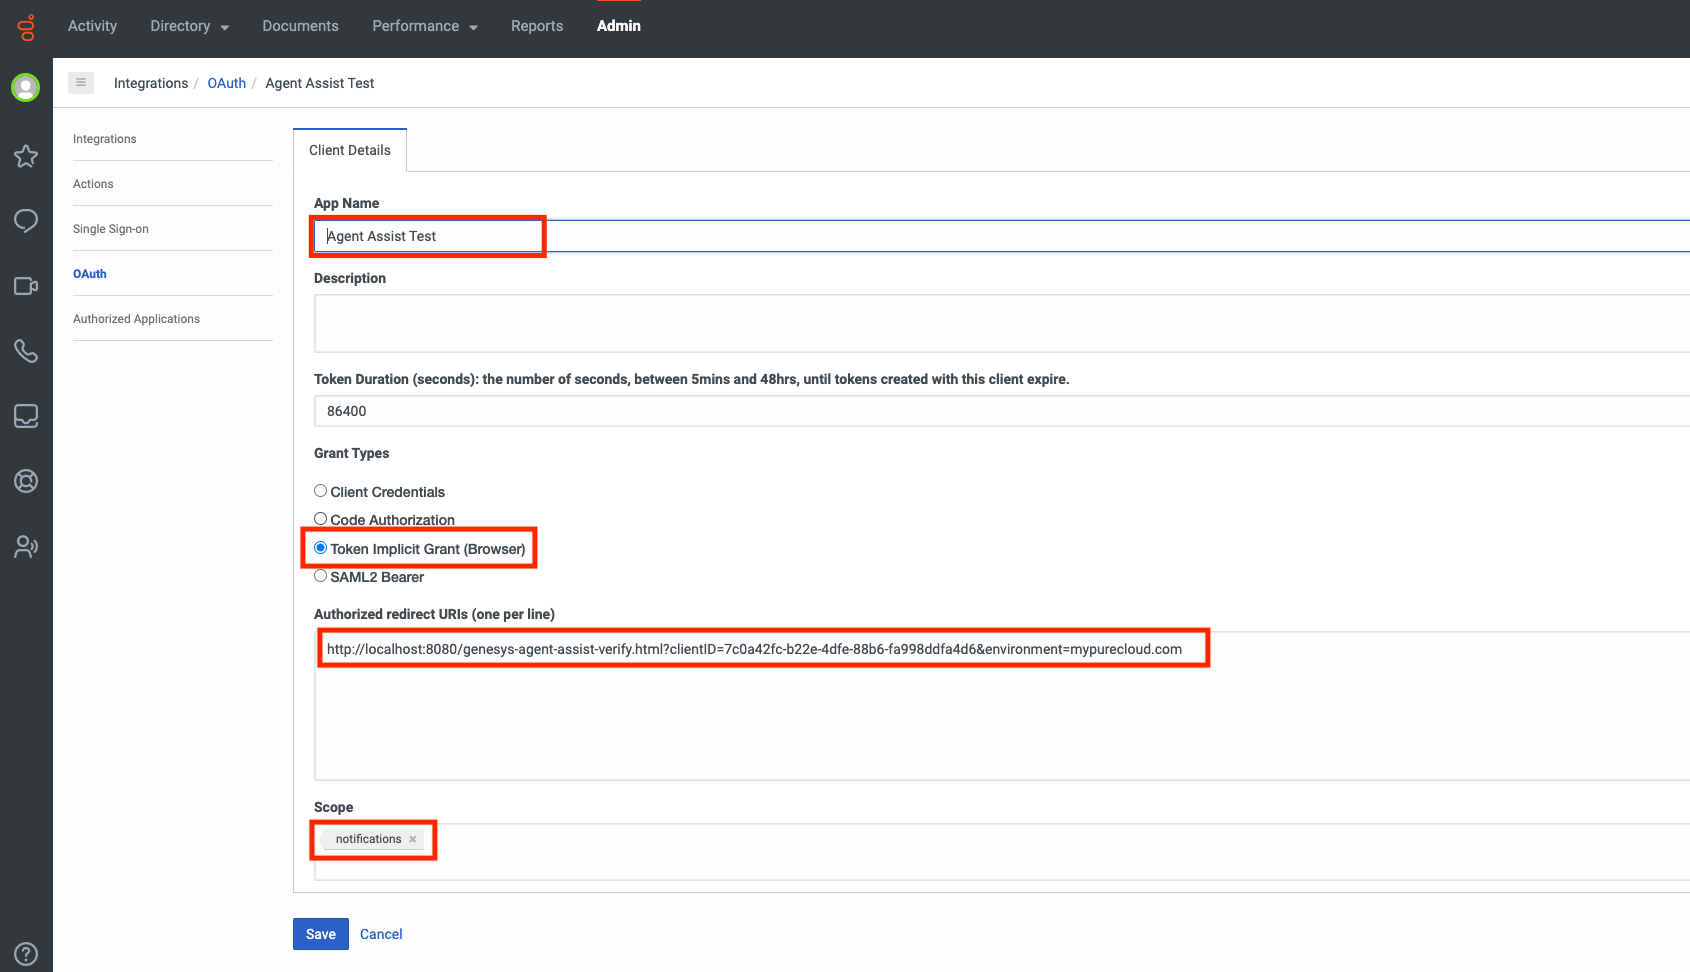
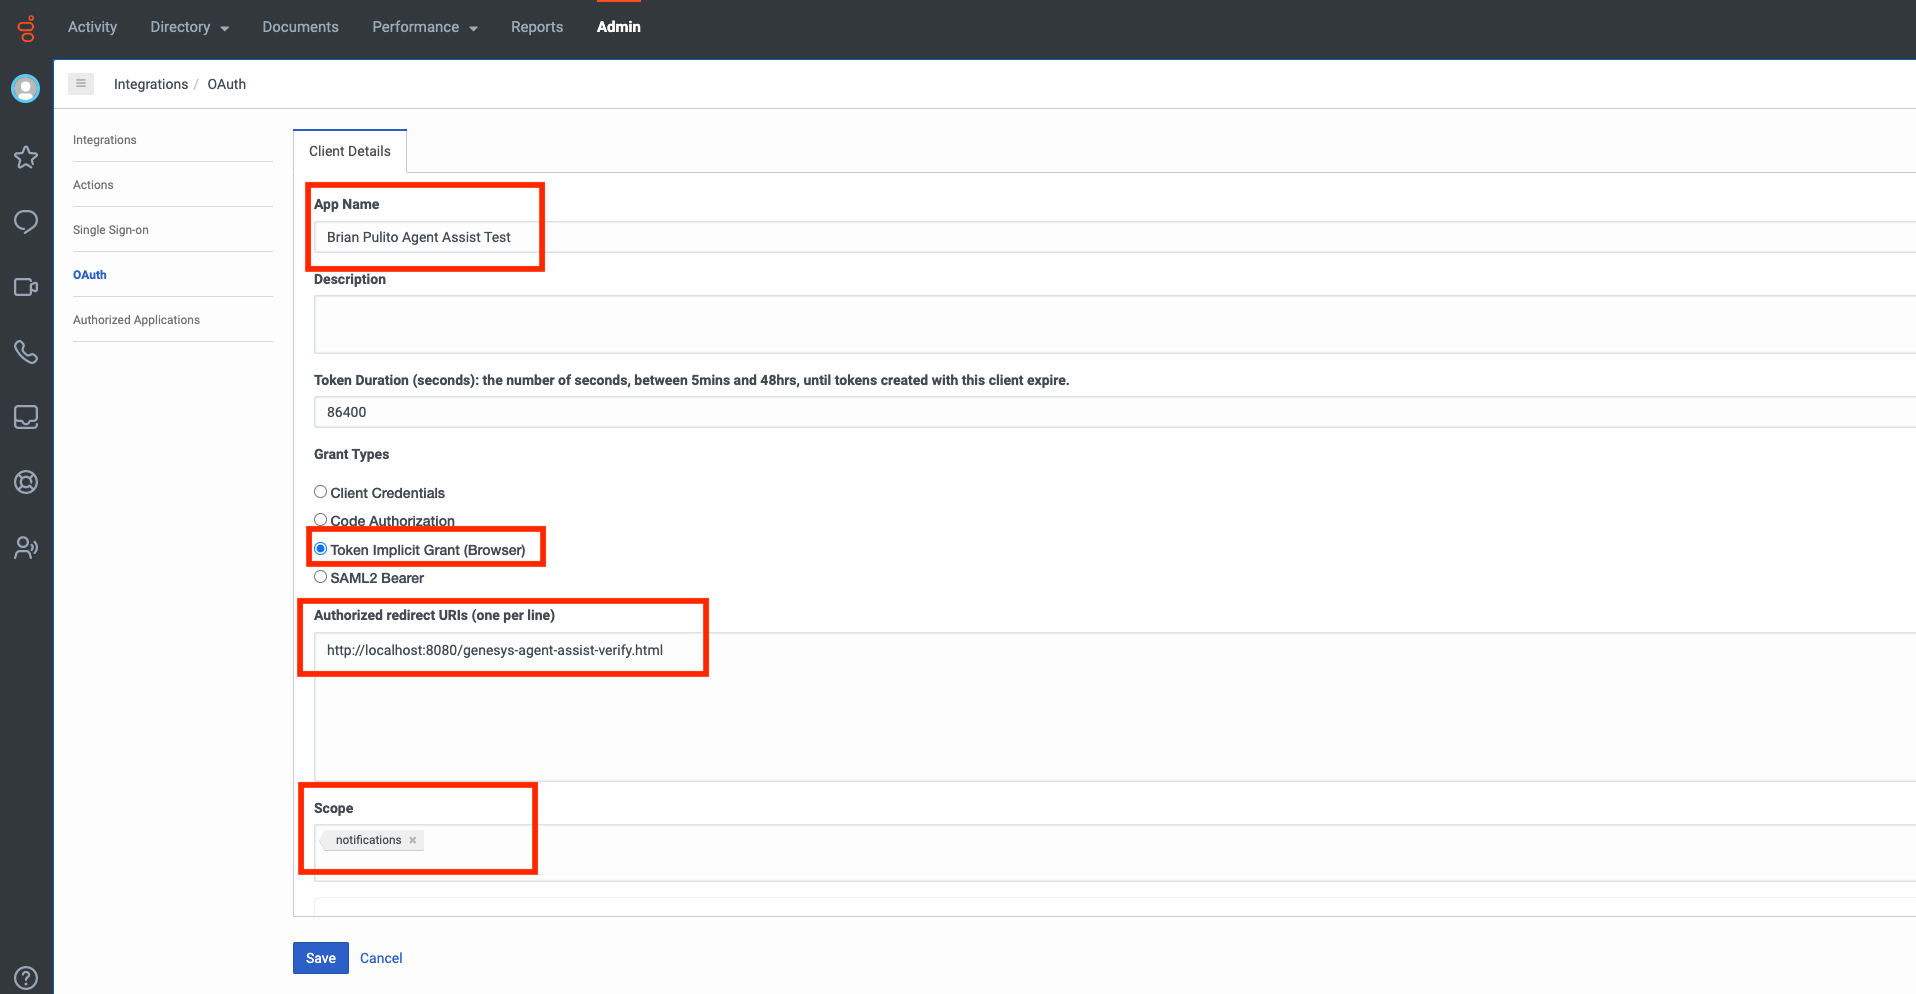
Updated readme to reflect recent code changes.

diff --git a/integrations/webchat/agent-assist/agent-verify/README.md b/integrations/webchat/agent-assist/agent-verify/README.md
@@ -39,12 +39,12 @@ Here is a quick rundown of all the relevant files:
 To test this application with a particular Contact Center as a Server (CCaaS) provider requires an account with that provider. It may also require specific permissions within the account. In addition, you will need a Watson Assistant instance.
 
 ### Genesys
-Genesys Voice Transcription requires customers to have Genesys Cloud CX 1 WEM Add-on II, Genesys Cloud CX 2 WEM Add-on I, or Genesys Cloud CX 3 licenses. You will need voice transcription to be enabled to run this demo.Go here for details on the [Genesys Fair Use Policy](https://help.mypurecloud.com/articles/genesys-cloud-fair-use-policy/). This demo was built using [Genesys Transcription Notifications](https://developer.genesys.cloud/analyticsdatamanagement/speechtextanalytics/transcription-notifications).
+Genesys Voice Transcription requires customers to have Genesys Cloud CX 1 WEM Add-on II, Genesys Cloud CX 2 WEM Add-on I, or Genesys Cloud CX 3 licenses. You will need voice transcription to be enabled to run this demo. Go here for details on the [Genesys Fair Use Policy](https://help.mypurecloud.com/articles/genesys-cloud-fair-use-policy/). This demo was built using [Genesys Transcription Notifications](https://developer.genesys.cloud/analyticsdatamanagement/speechtextanalytics/transcription-notifications).
 
 You will also need to setup and configure a webserver to serve up the static HTML pages, CSS and javascript contained in this sample project. 
 
 #### Authentication
-The Genesys connector included with this sample relise on a type of OAuth called **Token Implicit Grant** browser for authentication. The parameters needed to perform this authentication are passed to the agent-verify application through query parameters. Details on setting up 
+The Genesys connector included with this sample relies on a type of OAuth called **Token Implicit Grant** browser for authentication. The parameters needed to perform this authentication are passed to the agent-verify application through query parameters. Details on setting up OAuth can be found in the steps outlined below.
 
 #### Agent Groups
 You must define a group that will contain agents within the Genesys Admin dashboard. Please refer to Genesys documentation for how to set this up. Note that you will need this group when configuring the agent-verify Interation Widget.
@@ -146,17 +146,17 @@ The `Group Filtering` section is selected from a pre-configured group that can b
 
 ### Step 8: Configure OAuth for the Interaction Widget
 
-![Genesys Interaction Widget Config Page](images/oauth-client-page.png)
+![Oauth Client Page](images/oauth-client-page.png)
 Start by going to `OAuth` under Integrations and it `Add Client` to create a new OAuth client.
 
-![Genesys Interaction Widget Config Page](images/oauth-client-details-top-page.png)
+![OAuth Client Details Page](images/oauth-client-details-top-page.png)
 Here you'll need to configure the App Name associated with the credentials, the Grant Type which must be `Token Implicit Grant (Browser)`, the redirect URL which is shown below:
 ```
-http://localhost:8080/genesys-agent-assist-verify.html?clientID=xxxxx&environment=mypurecloud.com
+http://<hostname:port>/genesys-agent-assist-verify.html
 ```
-and the Scope which is set to `notifications`. Note that the redirect URL does not need to include the conversationID.
+and the Scope which is set to `notifications`. Note that the redirect URL does not need to include the query parameters.
 
-![Genesys Interaction Widget Config Page](images/oauth-client-details-bottom-page.png)
+![OAuth Client Details Bottom Page](images/oauth-client-details-bottom-page.png)
 Once the previous page is saved, you will be presented with more details about your OAuth configuration including the Client ID which is needed when configuring the Interaction Widget.
 
 ### Step 9: Setup Speech and Text Analytics
@@ -182,7 +182,7 @@ After completing these steps you will need to setup a call flow to test that the
 
 This sample relies on the `string-similarity` algorithm implemented [here](https://github.com/aceakash/string-similarity) to do the verbatim check.
 
-You can download a video of the sample from [here](videos/agent-verify-demo.mp4).
+You can download a video of the sample from [this page](videos/agent-verify-demo.mp4) by clicking the download button.
 
 
 
